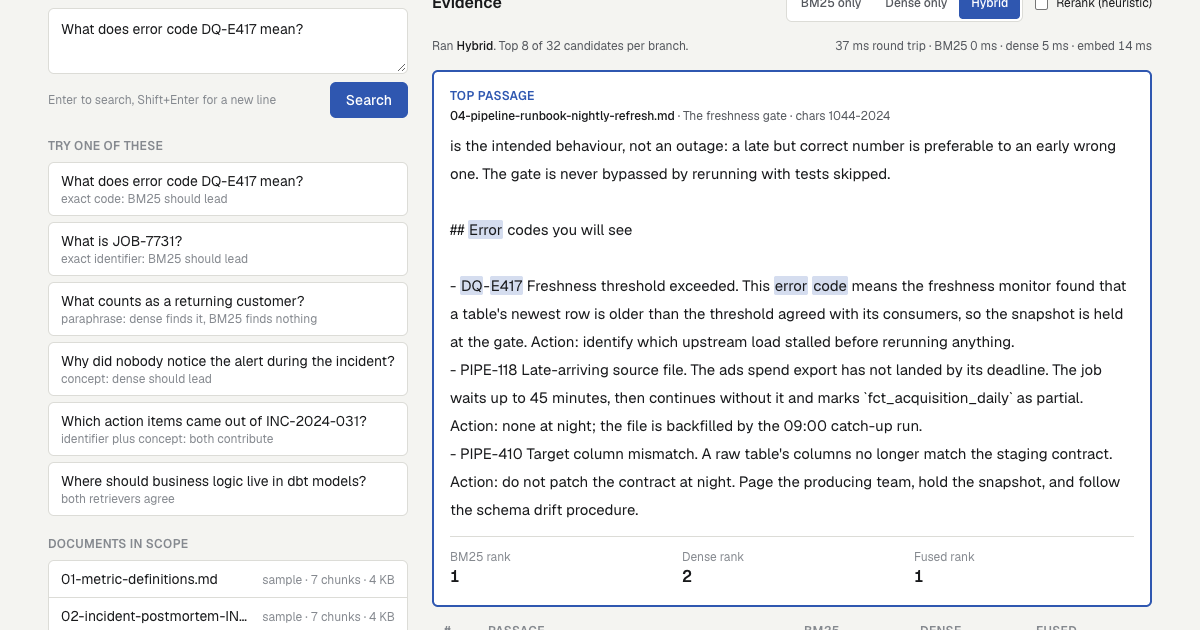
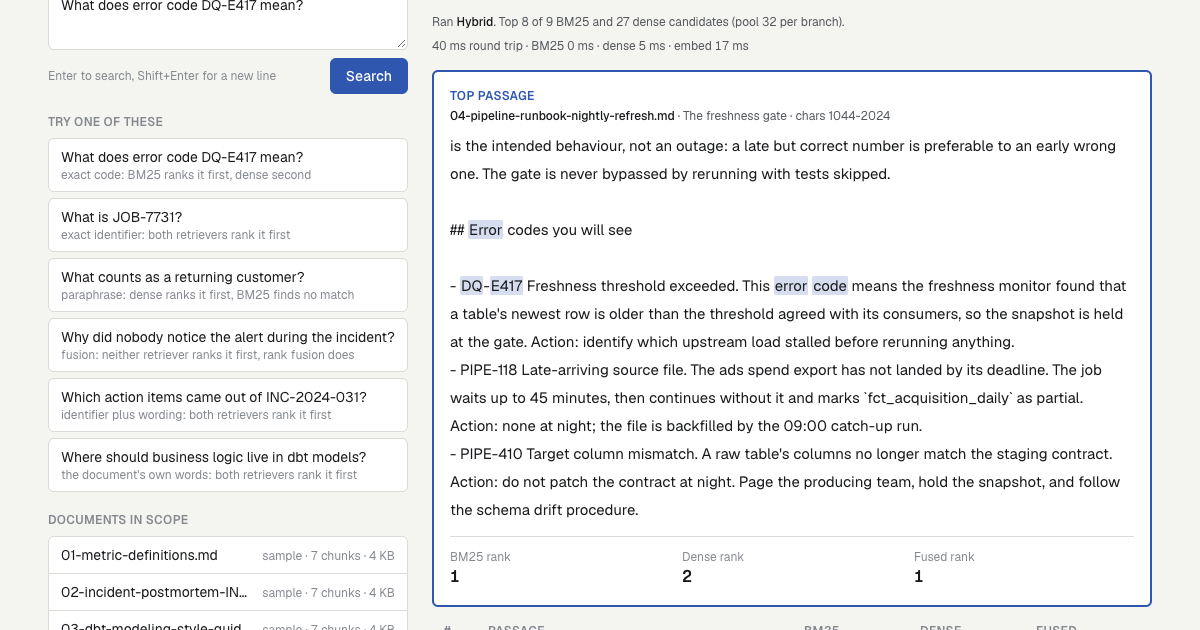
fix(frontend): say "no match" instead of "outside top N" when true
A missing branch rank now reads "no BM25 match" or "no dense match"
when that branch returned fewer candidates than the pool, and "outside
top N" only when it filled the pool; the summary line reports the real
counts ("Top 8 of 0 BM25 and 27 dense candidates (pool 32 per branch)")
and falls back to the old wording if the API does not send the counts.
Screenshots and the preview image regenerated from the production build
so they match the deployed page after the next deploy.

diff --git a/frontend/components/Evidence.tsx b/frontend/components/Evidence.tsx
@@ -49,6 +49,17 @@ function Bar({ value, max, label }: { value: number | null; max: number; label: 
   );
 }
 
+/**
+ * Why a branch rank is missing. With the count a branch actually returned we
+ * can tell "the branch found nothing for this chunk" (it returned fewer than
+ * the pool, so every match is already ranked) from "ranked, but below the
+ * pool cut-off". Without the count (older API) only the pool wording is safe.
+ */
+export function missingRankLabel(label: string, poolSize: number, returned: number | null | undefined): string {
+  if (typeof returned === "number" && returned < poolSize) return `no ${label} match`;
+  return `outside top ${poolSize}`;
+}
+
 function RankCell({
   rank,
   score,
@@ -56,6 +67,7 @@ function RankCell({
   ran,
   label,
   poolSize,
+  returned,
   digits = 3,
 }: {
   rank: number | null;
@@ -64,6 +76,7 @@ function RankCell({
   ran: boolean;
   label: string;
   poolSize: number;
+  returned: number | null | undefined;
   digits?: number;
 }) {
   if (!ran) {
@@ -75,9 +88,10 @@ function RankCell({
     );
   }
   if (rank == null) {
+    const text = missingRankLabel(label, poolSize, returned);
     return (
-      <div className="flex flex-col gap-1" title={`Not among the top ${poolSize} ${label} candidates`}>
-        <span className="text-xs text-ink-3">outside top {poolSize}</span>
+      <div className="flex flex-col gap-1" title={text.startsWith("no ") ? `The ${label} branch did not retrieve this chunk at all` : `Ranked below the top ${poolSize} ${label} candidates`}>
+        <span className="text-xs text-ink-3">{text}</span>
         <div className="bar-track" aria-hidden />
       </div>
     );
@@ -117,6 +131,7 @@ function HitRow({
   maxima,
   ran,
   poolSize,
+  returned,
   terms,
   rerankApplied,
   loadContext,
@@ -125,6 +140,7 @@ function HitRow({
   maxima: { lexical: number; vector: number; fusion: number; rerank: number };
   ran: { lexical: boolean; vector: boolean; fusion: boolean };
   poolSize: number;
+  returned: { lexical: number | null; vector: number | null } | undefined;
   terms: string[];
   rerankApplied: boolean;
   loadContext: (hit: Hit) => Promise<Chunk[]>;
@@ -167,9 +183,9 @@ function HitRow({
           <span className="block truncate text-sm">{hit.text.replace(/\s+/g, " ").slice(0, 160)}</span>
         </span>
         <div className="col-span-2 grid grid-cols-3 gap-3 sm:col-span-3 sm:contents">
-          <RankCell rank={s.lexical_rank} score={s.lexical_score} max={maxima.lexical} ran={ran.lexical} label="BM25" poolSize={poolSize} digits={2} />
-          <RankCell rank={s.vector_rank} score={s.vector_similarity} max={maxima.vector} ran={ran.vector} label="dense" poolSize={poolSize} />
-          <RankCell rank={s.fusion_rank} score={s.fusion_score} max={maxima.fusion} ran={ran.fusion} label="fused" poolSize={poolSize} digits={4} />
+          <RankCell rank={s.lexical_rank} score={s.lexical_score} max={maxima.lexical} ran={ran.lexical} label="BM25" poolSize={poolSize} returned={returned?.lexical} digits={2} />
+          <RankCell rank={s.vector_rank} score={s.vector_similarity} max={maxima.vector} ran={ran.vector} label="dense" poolSize={poolSize} returned={returned?.vector} />
+          <RankCell rank={s.fusion_rank} score={s.fusion_score} max={maxima.fusion} ran={ran.fusion} label="fused" poolSize={poolSize} returned={undefined} digits={4} />
         </div>
       </button>
       <div id={panelId} hidden={!open} className="border-t border-line px-3 py-3">
@@ -331,7 +347,15 @@ export default function Evidence(props: EvidenceProps) {
               {results.mode_requested !== results.mode_effective && " (requested mode unavailable)"}
               {rerankApplied && ", then reranked"}
               {results.rerank_status === "failed" && ", rerank failed so fused order kept"}
-              . Top {hits.length} of {results.candidate_k} candidates per branch.
+              . Top {hits.length}
+              {results.candidates_returned
+                ? ` of ${[
+                    ran.lexical && results.candidates_returned.lexical != null ? `${results.candidates_returned.lexical} BM25` : null,
+                    ran.vector && results.candidates_returned.vector != null ? `${results.candidates_returned.vector} dense` : null,
+                  ]
+                    .filter(Boolean)
+                    .join(" and ")} candidates (pool ${results.candidate_k} per branch).`
+                : ` of ${results.candidate_k} candidates per branch.`}
             </span>
             {latencyMs != null && (
               <span className="tnum">
@@ -352,14 +376,14 @@ export default function Evidence(props: EvidenceProps) {
               <p className="whitespace-pre-wrap text-[15px] leading-7">{highlight(flowText(top.text), terms)}</p>
               <dl className="mt-3 grid grid-cols-3 gap-3 border-t border-line pt-3 text-xs">
                 {[
-                  { label: "BM25 rank", value: ran.lexical ? top.scores.lexical_rank : null, ranBranch: ran.lexical },
-                  { label: "Dense rank", value: ran.vector ? top.scores.vector_rank : null, ranBranch: ran.vector },
-                  { label: "Fused rank", value: ran.fusion ? top.scores.fusion_rank : null, ranBranch: ran.fusion },
+                  { label: "BM25 rank", value: ran.lexical ? top.scores.lexical_rank : null, ranBranch: ran.lexical, missing: missingRankLabel("BM25", results.candidate_k, results.candidates_returned?.lexical) },
+                  { label: "Dense rank", value: ran.vector ? top.scores.vector_rank : null, ranBranch: ran.vector, missing: missingRankLabel("dense", results.candidate_k, results.candidates_returned?.vector) },
+                  { label: "Fused rank", value: ran.fusion ? top.scores.fusion_rank : null, ranBranch: ran.fusion, missing: `outside top ${results.candidate_k}` },
                 ].map((cell) => (
                   <div key={cell.label}>
                     <dt className="text-ink-3">{cell.label}</dt>
                     <dd className="text-base font-semibold tnum">
-                      {!cell.ranBranch ? <span className="text-sm font-normal text-ink-3">not run</span> : cell.value ?? <span className="text-sm font-normal text-ink-3">outside top {results.candidate_k}</span>}
+                      {!cell.ranBranch ? <span className="text-sm font-normal text-ink-3">not run</span> : cell.value ?? <span className="text-sm font-normal text-ink-3">{cell.missing}</span>}
                     </dd>
                   </div>
                 ))}
@@ -382,6 +406,7 @@ export default function Evidence(props: EvidenceProps) {
                 maxima={maxima}
                 ran={ran}
                 poolSize={results.candidate_k}
+                returned={results.candidates_returned}
                 terms={terms}
                 rerankApplied={Boolean(rerankApplied)}
                 loadContext={loadContext}

diff --git a/frontend/lib/types.ts b/frontend/lib/types.ts
@@ -73,6 +73,8 @@ export interface SearchResponse {
   rerank_status: "applied" | "disabled" | "unavailable" | "failed";
   reranker: string | null;
   candidate_k: number;
+  /** What each branch actually returned; null for a branch that did not run. Absent on older APIs. */
+  candidates_returned?: { lexical: number | null; vector: number | null };
   timings_ms: Record<string, number>;
   notes: string[];
 }
